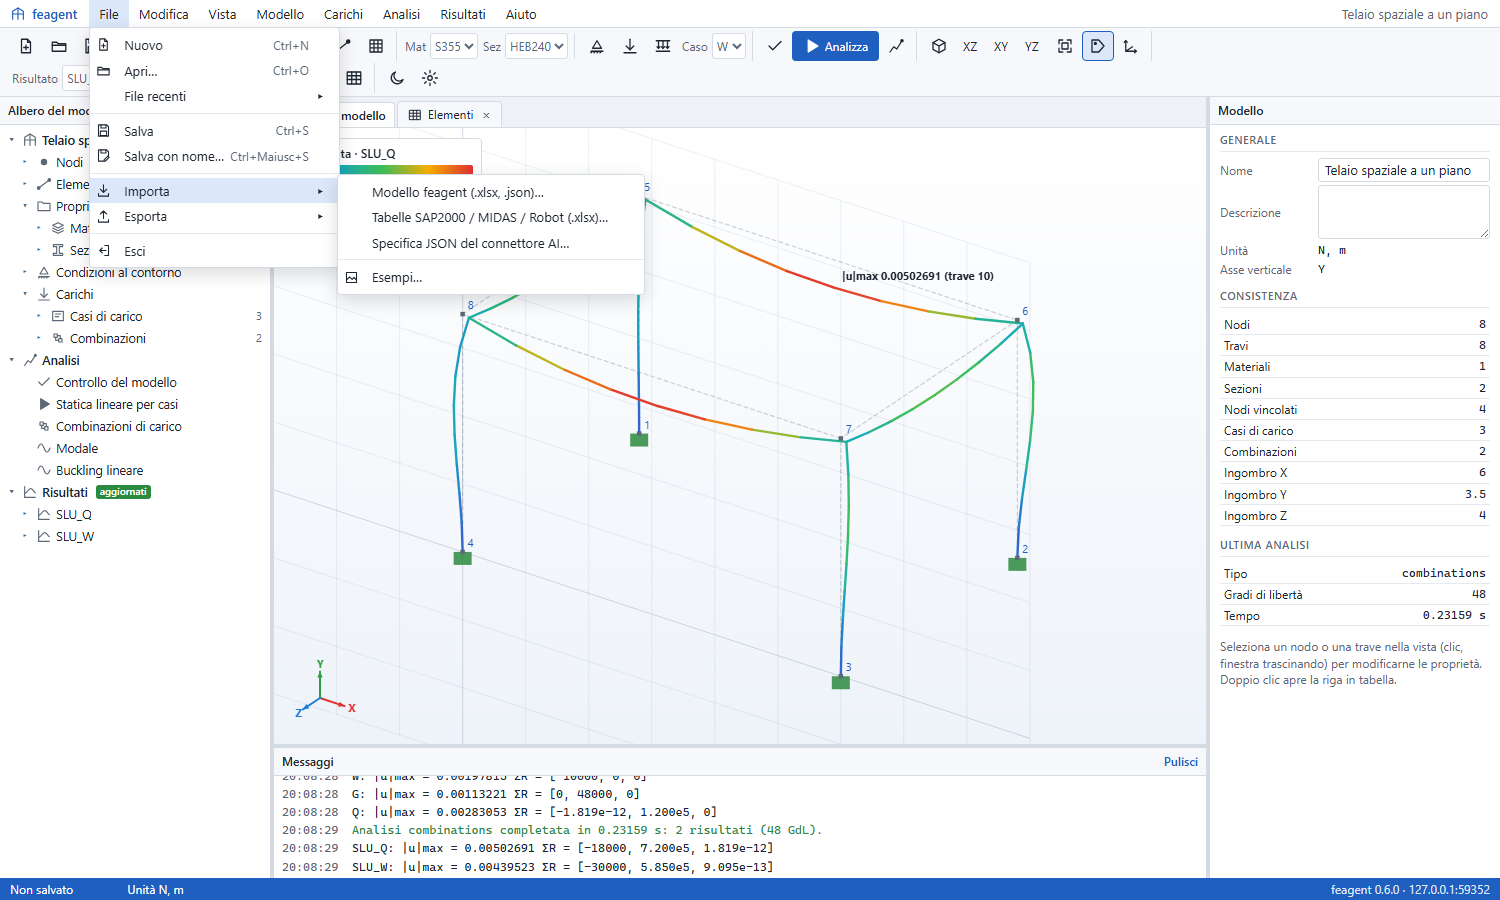
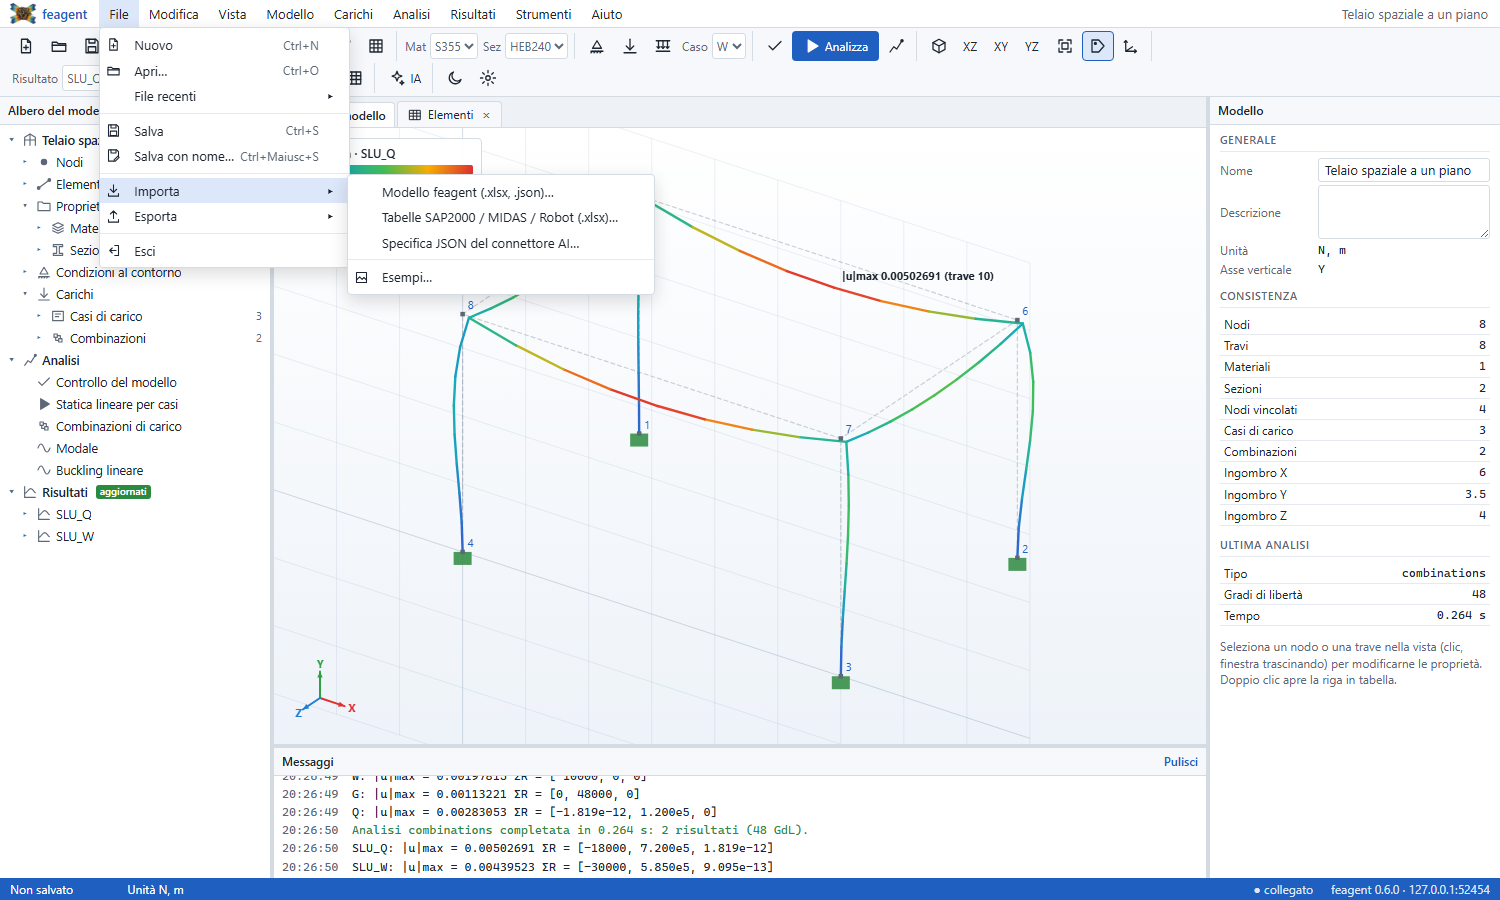
docs: interfaccia online e pilotaggio da IA

diff --git a/it-42-desktop-gui.md b/it-42-desktop-gui.md
@@ -1,11 +1,11 @@
 ---
 layout: default
-title: "42 - Interfaccia desktop (feagent gui)"
+title: "42 - Interfaccia desktop e online (feagent gui)"
 parent: Italiano
 nav_order: 42
 ---
 
-# 42 - Interfaccia desktop
+# 42 - Interfaccia desktop e online
 
 `feagent gui` avvia l'**interfaccia grafica** del solutore: un server locale
 (solo sul tuo PC, indirizzo `127.0.0.1`) e una finestra applicazione nel
@@ -40,6 +40,7 @@ browser predefinito.
 | `--port 8777` | porta preferita (se occupata se ne sceglie una libera) |
 | `--no-browser` | non apre la finestra: stampa l'indirizzo da aprire |
 | `--keep-alive` | il server resta attivo anche a finestra chiusa |
+| `--online` | server multiutente (vedi [Uso online](#uso-online)) |
 
 Il server si ferma con **File > Esci**, chiudendo la finestra (dopo circa 45
 secondi senza segnali dall'interfaccia) o con Ctrl+C nel terminale. Ascolta
@@ -71,6 +72,7 @@ carico ancora senza carichi; la libreria lo ignora.
 | Carichi | casi di carico, carichi nodali, distribuiti, concentrati, termici, peso proprio, combinazioni |
 | Analisi | controllo del modello (codici E01-E63 di `feagent check`), statica per casi, combinazione libera, combinazioni, modale, buckling |
 | Risultati | deformata, N, Vy, Vz, T, My, Mz, reazioni, modi, tabelle |
+| Strumenti | collega un'IA (indirizzo, token, configurazioni pronte), opzioni |
 
 **Esporta** scrive il modello per OpenSees (Tcl e Python), SAP2000, MIDAS,
 Robot e Straus7, i risultati in Excel, il tabulato di calcolo e la relazione
@@ -171,6 +173,94 @@ modo), la grandezza e la scala.
 
 Se il modello cambia dopo l'analisi, l'albero e la vista segnalano che i
 risultati vanno aggiornati (F5).
+
+## Pilotare l'interfaccia con un'IA
+
+Il modello di ogni sessione vive sul server: la finestra, gli assistenti IA
+e le altre finestre aperte sulla stessa sessione lo leggono e lo modificano,
+e un canale di eventi avvisa subito tutti. Mentre un'IA lavora, la schermata
+si aggiorna da sola: albero, vista, tabelle e risultati. Nella barra di stato
+compare **IA al lavoro** e i suoi messaggi escono in viola; ogni modifica
+dell'IA e' un passo di annulla (Ctrl+Z la toglie, e l'IA vede lo stato
+annullato).
+
+![Telaio costruito, analizzato e mostrato da un'IA](images/gui_ai_live.png)
+
+L'IA dispone di tre canali, tutti sulla stessa API:
+
+* **MCP** (Claude Desktop, Claude Code, Codex, Cursor, ...): i tool `gui_*`
+  del connettore ([pagina 38](it-38-mcp-server.html)). In locale basta avere il
+  connettore configurato (`feagent connect claude-desktop --write`): `feagent
+  gui` scrive indirizzo e token in `~/.feagent/gui_session.json` e i tool li
+  trovano da soli.
+* **REST/OpenAPI**: `POST /api/live/<azione>` con `Authorization: Bearer
+  <token>`; la specifica e' in `/api/live/openapi.json` (Custom GPT Actions,
+  n8n, script).
+* **Python**: `agent_api.call("gui_state")` e gli altri tool.
+
+| Azione | Effetto |
+|---|---|
+| `live/state` | riepilogo del modello, selezione e vista dell'utente, risultati |
+| `live/model` | fogli del modello |
+| `live/edit` | operazioni sui fogli (upsert, delete, replace_sheet, rename, set_meta) |
+| `live/replace` | nuovo modello da specifica JSON |
+| `live/run` | analisi; i risultati compaiono nella finestra |
+| `live/results` | spostamenti, reazioni, diagrammi |
+| `live/show` | risultato, vista, selezione, tabella o messaggio da mostrare |
+| `live/screenshot` | immagine della vista |
+| `live/check`, `live/export` | validazione, file esportato |
+
+**Strumenti > Collega un'IA** (o il pulsante **IA** della barra) mostra
+indirizzo e token della sessione con la configurazione MCP, un esempio
+`curl` e le righe Python pronte da copiare. Il token apre **solo quella
+sessione**.
+
+![Dialogo Collega un'IA](images/gui_ai_connect.png)
+
+Esempio di operazioni `gui_edit`:
+
+```json
+[{"op": "upsert", "sheet": "nodes", "rows": [{"id": 5, "x": 12, "y": 4, "z": 0}]},
+ {"op": "upsert", "sheet": "elements", "rows": [{"id": 4, "i": 3, "j": 5, "material": "S355", "section": "IPE400"}]},
+ {"op": "delete", "sheet": "NodalLoad", "where": {"Case": "W"}}]
+```
+
+## Uso online
+
+Lo stesso programma funziona come servizio web multiutente:
+
+```bash
+export FEAGENT_GUI_KEY="una-chiave-lunga"
+feagent gui --online --port 8777 --public-url https://fem.esempio.it
+```
+
+* all'apertura della pagina si chiede la **chiave di accesso**; ogni accesso
+  apre una **sessione separata** (modello, risultati, token propri), che resta
+  attiva 12 ore senza uso;
+* il server **non tocca il proprio file system**: i modelli si caricano e si
+  scaricano dal browser (File > Apri, Salva, Esporta);
+* senza chiave il server non parte, salvo `--no-auth` esplicito per reti
+  fidate; `--max-sessions` limita le sessioni contemporanee e al massimo due
+  analisi girano insieme;
+* va esposto **solo dietro HTTPS** (proxy inverso come Caddy o nginx, oppure
+  un tunnel); `--public-url` e' l'indirizzo pubblico mostrato nel dialogo
+  dell'IA. Con nginx va lasciato passare il canale di eventi senza buffer
+  (il server invia gia' `X-Accel-Buffering: no`).
+
+Esempio con Caddy, che ottiene da solo il certificato:
+
+```text
+fem.esempio.it {
+    reverse_proxy 127.0.0.1:8777
+}
+```
+
+In container, dalla radice del repository:
+
+```bash
+docker build -f deploy/Dockerfile -t feagent-gui .
+docker run -d -p 127.0.0.1:8777:8777 -e FEAGENT_GUI_KEY=una-chiave-lunga feagent-gui
+```
 
 ## Scorciatoie
 

diff --git a/en-42-desktop-gui.md b/en-42-desktop-gui.md
@@ -1,11 +1,11 @@
 ---
 layout: default
-title: "42 - Desktop GUI (feagent gui)"
+title: "42 - Desktop and online GUI (feagent gui)"
 parent: English
 nav_order: 42
 ---
 
-# 42 - Desktop GUI
+# 42 - Desktop and online GUI
 
 `feagent gui` starts the solver's **graphical interface**: a local server
 (on your PC only, address `127.0.0.1`) and an application window in the
@@ -39,6 +39,7 @@ window in application mode, or in the default browser if neither is found.
 | `--port 8777` | preferred port (a free one is picked if it is busy) |
 | `--no-browser` | do not open the window: print the address instead |
 | `--keep-alive` | keep the server running after the window is closed |
+| `--online` | multi-user server (see [Online use](#online-use)) |
 
 The server stops with **File > Exit**, when the window is closed (after about
 45 seconds without signals from the interface) or with Ctrl+C in the
@@ -69,6 +70,7 @@ lists load cases that have no loads yet; the library ignores it.
 | Loads | load cases, nodal, distributed, concentrated and thermal loads, self weight, combinations |
 | Analysis | model check (codes E01-E63 of `feagent check`), static per load case, custom combination, combinations, modal, buckling |
 | Results | deformed shape, N, Vy, Vz, T, My, Mz, reactions, modes, tables |
+| Tools (Strumenti) | connect an AI (address, token, ready-made configurations), options |
 
 **Export** writes the model for OpenSees (Tcl and Python), SAP2000, MIDAS,
 Robot and Straus7, the results to Excel, the calculation printout and the
@@ -165,6 +167,93 @@ mode), the quantity and the scale.
 
 When the model changes after an analysis, the tree and the view flag the
 results as out of date (F5 to rerun).
+
+## Driving the interface with an AI
+
+Each session's model lives on the server: the window, AI assistants and other
+windows open on the same session read and change it, and an event channel
+notifies everyone at once. While an AI works, the screen updates by itself:
+tree, view, tables and results. The status bar shows **IA al lavoro** (AI at
+work) and its messages appear in purple; every AI change is one undo step
+(Ctrl+Z removes it, and the AI sees the undone state).
+
+![Frame built, analysed and shown by an AI](images/gui_ai_live.png)
+
+The AI has three channels, all on the same API:
+
+* **MCP** (Claude Desktop, Claude Code, Codex, Cursor, ...): the connector's
+  `gui_*` tools ([page 38](en-38-mcp-server.html)). Locally the configured
+  connector is enough (`feagent connect claude-desktop --write`): `feagent
+  gui` writes address and token to `~/.feagent/gui_session.json` and the tools
+  find them.
+* **REST/OpenAPI**: `POST /api/live/<action>` with `Authorization: Bearer
+  <token>`; the spec is at `/api/live/openapi.json` (Custom GPT Actions, n8n,
+  scripts).
+* **Python**: `agent_api.call("gui_state")` and the other tools.
+
+| Action | Effect |
+|---|---|
+| `live/state` | model summary, user selection and view, results |
+| `live/model` | model sheets |
+| `live/edit` | sheet operations (upsert, delete, replace_sheet, rename, set_meta) |
+| `live/replace` | new model from a JSON spec |
+| `live/run` | analysis; results appear in the window |
+| `live/results` | displacements, reactions, diagrams |
+| `live/show` | result, view, selection, table or message to show |
+| `live/screenshot` | image of the view |
+| `live/check`, `live/export` | validation, exported file |
+
+**Strumenti > Collega un'IA** (Tools > Connect an AI, or the **IA** toolbar
+button) shows the session address and token with the MCP configuration, a
+`curl` example and Python lines ready to copy. The token opens **only that
+session**.
+
+![Connect an AI dialog](images/gui_ai_connect.png)
+
+Example of `gui_edit` operations:
+
+```json
+[{"op": "upsert", "sheet": "nodes", "rows": [{"id": 5, "x": 12, "y": 4, "z": 0}]},
+ {"op": "upsert", "sheet": "elements", "rows": [{"id": 4, "i": 3, "j": 5, "material": "S355", "section": "IPE400"}]},
+ {"op": "delete", "sheet": "NodalLoad", "where": {"Case": "W"}}]
+```
+
+## Online use
+
+The same program runs as a multi-user web service:
+
+```bash
+export FEAGENT_GUI_KEY="a-long-key"
+feagent gui --online --port 8777 --public-url https://fem.example.com
+```
+
+* opening the page asks for the **access key**; every login opens a
+  **separate session** (own model, results and token), kept for 12 hours of
+  inactivity;
+* the server **never touches its own file system**: models are uploaded and
+  downloaded through the browser (File > Open, Save, Export);
+* without a key the server refuses to start, unless `--no-auth` is given for
+  trusted networks; `--max-sessions` caps concurrent sessions and at most two
+  analyses run at the same time;
+* expose it **only behind HTTPS** (a reverse proxy such as Caddy or nginx, or
+  a tunnel); `--public-url` is the public address shown in the AI dialog.
+  With nginx the event channel must pass unbuffered (the server already sends
+  `X-Accel-Buffering: no`).
+
+Example with Caddy, which obtains the certificate by itself:
+
+```text
+fem.example.com {
+    reverse_proxy 127.0.0.1:8777
+}
+```
+
+In a container, from the repository root:
+
+```bash
+docker build -f deploy/Dockerfile -t feagent-gui .
+docker run -d -p 127.0.0.1:8777:8777 -e FEAGENT_GUI_KEY=a-long-key feagent-gui
+```
 
 ## Shortcuts
 

diff --git a/it-38-mcp-server.md b/it-38-mcp-server.md
@@ -11,7 +11,7 @@ feagent include un **connettore** con cui gli assistenti AI pilotano il
 solutore: validare un workbook, costruire un modello da una descrizione,
 eseguire analisi statiche, modali e di buckling, risolvere tutte le
 combinazioni con gli inviluppi, guardare la deformata, scrivere la relazione
-Word. Un unico registro di **17 tool** (`feagent.agent_api`) alimenta tre
+Word. Un unico registro di **27 tool** (`feagent.agent_api`) alimenta tre
 canali, cosi' ogni assistente parla con lo stesso feagent:
 
 | Canale | Comando | Chi lo usa |
@@ -79,6 +79,25 @@ restituisce gli stessi dati per gli script.
 | `plot_model` | PNG di modello, carichi, deformata, diagramma di un'azione interna o reazioni; ai client MCP arriva **come immagine** | si' |
 | `export_model` | OpenSees, SAP2000, MIDAS, Robot, Straus7 | si' |
 | `create_report` | relazione di calcolo Word (una combinazione o tutte) | si' |
+
+### Tool dell'interfaccia aperta (`gui_*`)
+
+Questi tool lavorano sul modello **aperto nell'interfaccia** (`feagent gui`,
+[pagina 42](it-42-desktop-gui.html)) invece che su un file: ogni modifica
+compare subito nella finestra dell'utente ed e' annullabile con Ctrl+Z.
+
+| Tool | Scopo |
+|---|---|
+| `gui_connect` | collega una sessione remota o online (indirizzo e token da *Strumenti > Collega un'IA*); in locale non serve |
+| `gui_state` | riepilogo del modello, selezione e vista dell'utente, estremi dei risultati, operazioni ammesse |
+| `gui_model` | fogli del modello aperto |
+| `gui_edit` | operazioni sui fogli: `upsert`, `delete` (a cascata su nodi e travi), `replace_sheet`, `rename`, `set_meta` |
+| `gui_replace_model` | sostituisce il modello con una specifica JSON (come `build_model`) |
+| `gui_run` | statica per casi o combinazione, combinazioni, modale, buckling; i risultati compaiono nella finestra |
+| `gui_results` | spostamenti, reazioni e diagrammi di nodi e travi scelti |
+| `gui_show` | mostra un risultato, una vista, una selezione, una tabella o un messaggio all'utente |
+| `gui_screenshot` | immagine della vista come la vede l'utente |
+| `gui_check` | validazione del modello aperto |
 
 Le combinazioni si scrivono come nella CLI: `"G=1.35 Q=1.5"` (coefficienti)
 o `"G Q"` (coefficiente 1). I risultati sono JSON; `plot_model` restituisce il

diff --git a/en-38-mcp-server.md b/en-38-mcp-server.md
@@ -10,7 +10,7 @@ nav_order: 38
 feagent ships a **connector** that lets AI assistants drive the solver:
 validate a workbook, build a model from a description, run static, modal and
 buckling analyses, solve every combination with envelopes, look at the
-deformed shape, write the Word report. One registry of **17 tools**
+deformed shape, write the Word report. One registry of **27 tools**
 (`feagent.agent_api`) feeds three channels, so every assistant talks to the
 same feagent:
 
@@ -90,6 +90,25 @@ and `feagent://examples/{key}` (an example with its analytical checks and
 sheets); and two **prompts**: `analyze_workbook(path)` (the recommended
 check → info → solve → plot → summary sequence) and
 `build_model_from_description(description, output_path)`.
+
+### Tools for the open interface (`gui_*`)
+
+These tools work on the model **open in the interface** (`feagent gui`,
+[page 42](en-42-desktop-gui.html)) instead of a file: every change shows up at
+once in the user's window and can be undone with Ctrl+Z.
+
+| Tool | Purpose |
+|---|---|
+| `gui_connect` | connect a remote or online session (address and token from *Tools > Connect an AI*); not needed locally |
+| `gui_state` | model summary, user selection and view, result extremes, allowed operations |
+| `gui_model` | sheets of the open model |
+| `gui_edit` | sheet operations: `upsert`, `delete` (cascading on nodes and beams), `replace_sheet`, `rename`, `set_meta` |
+| `gui_replace_model` | replace the model with a JSON spec (as `build_model`) |
+| `gui_run` | static per load case or combination, combinations, modal, buckling; results appear in the window |
+| `gui_results` | displacements, reactions and diagrams of chosen nodes and beams |
+| `gui_show` | show a result, a view, a selection, a table or a message to the user |
+| `gui_screenshot` | image of the view as the user sees it |
+| `gui_check` | validation of the open model |
 
 ### The JSON model spec (`build_model`)
 
